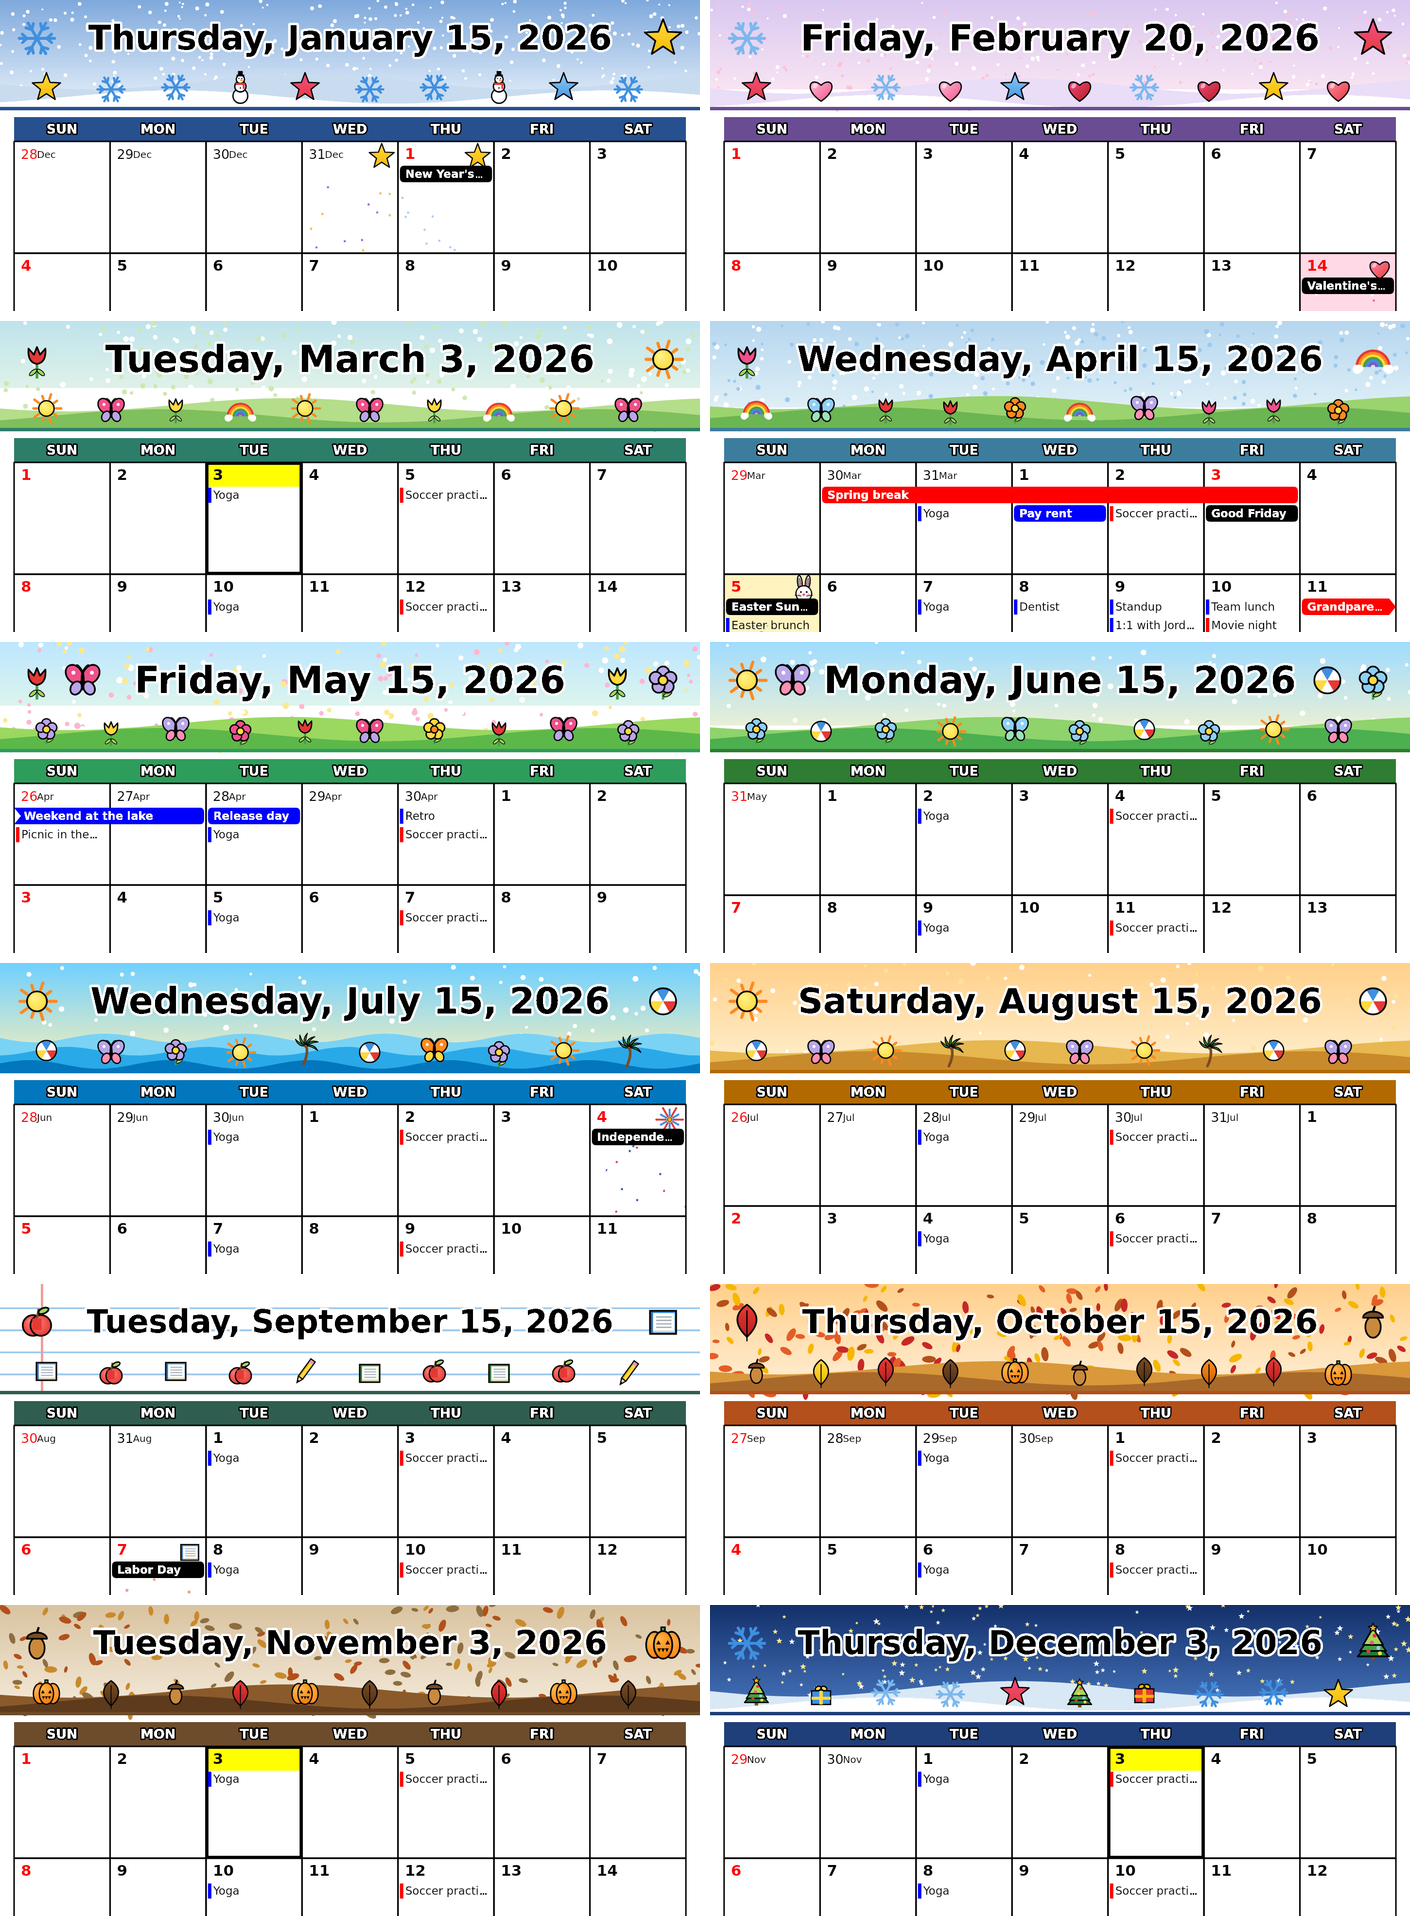
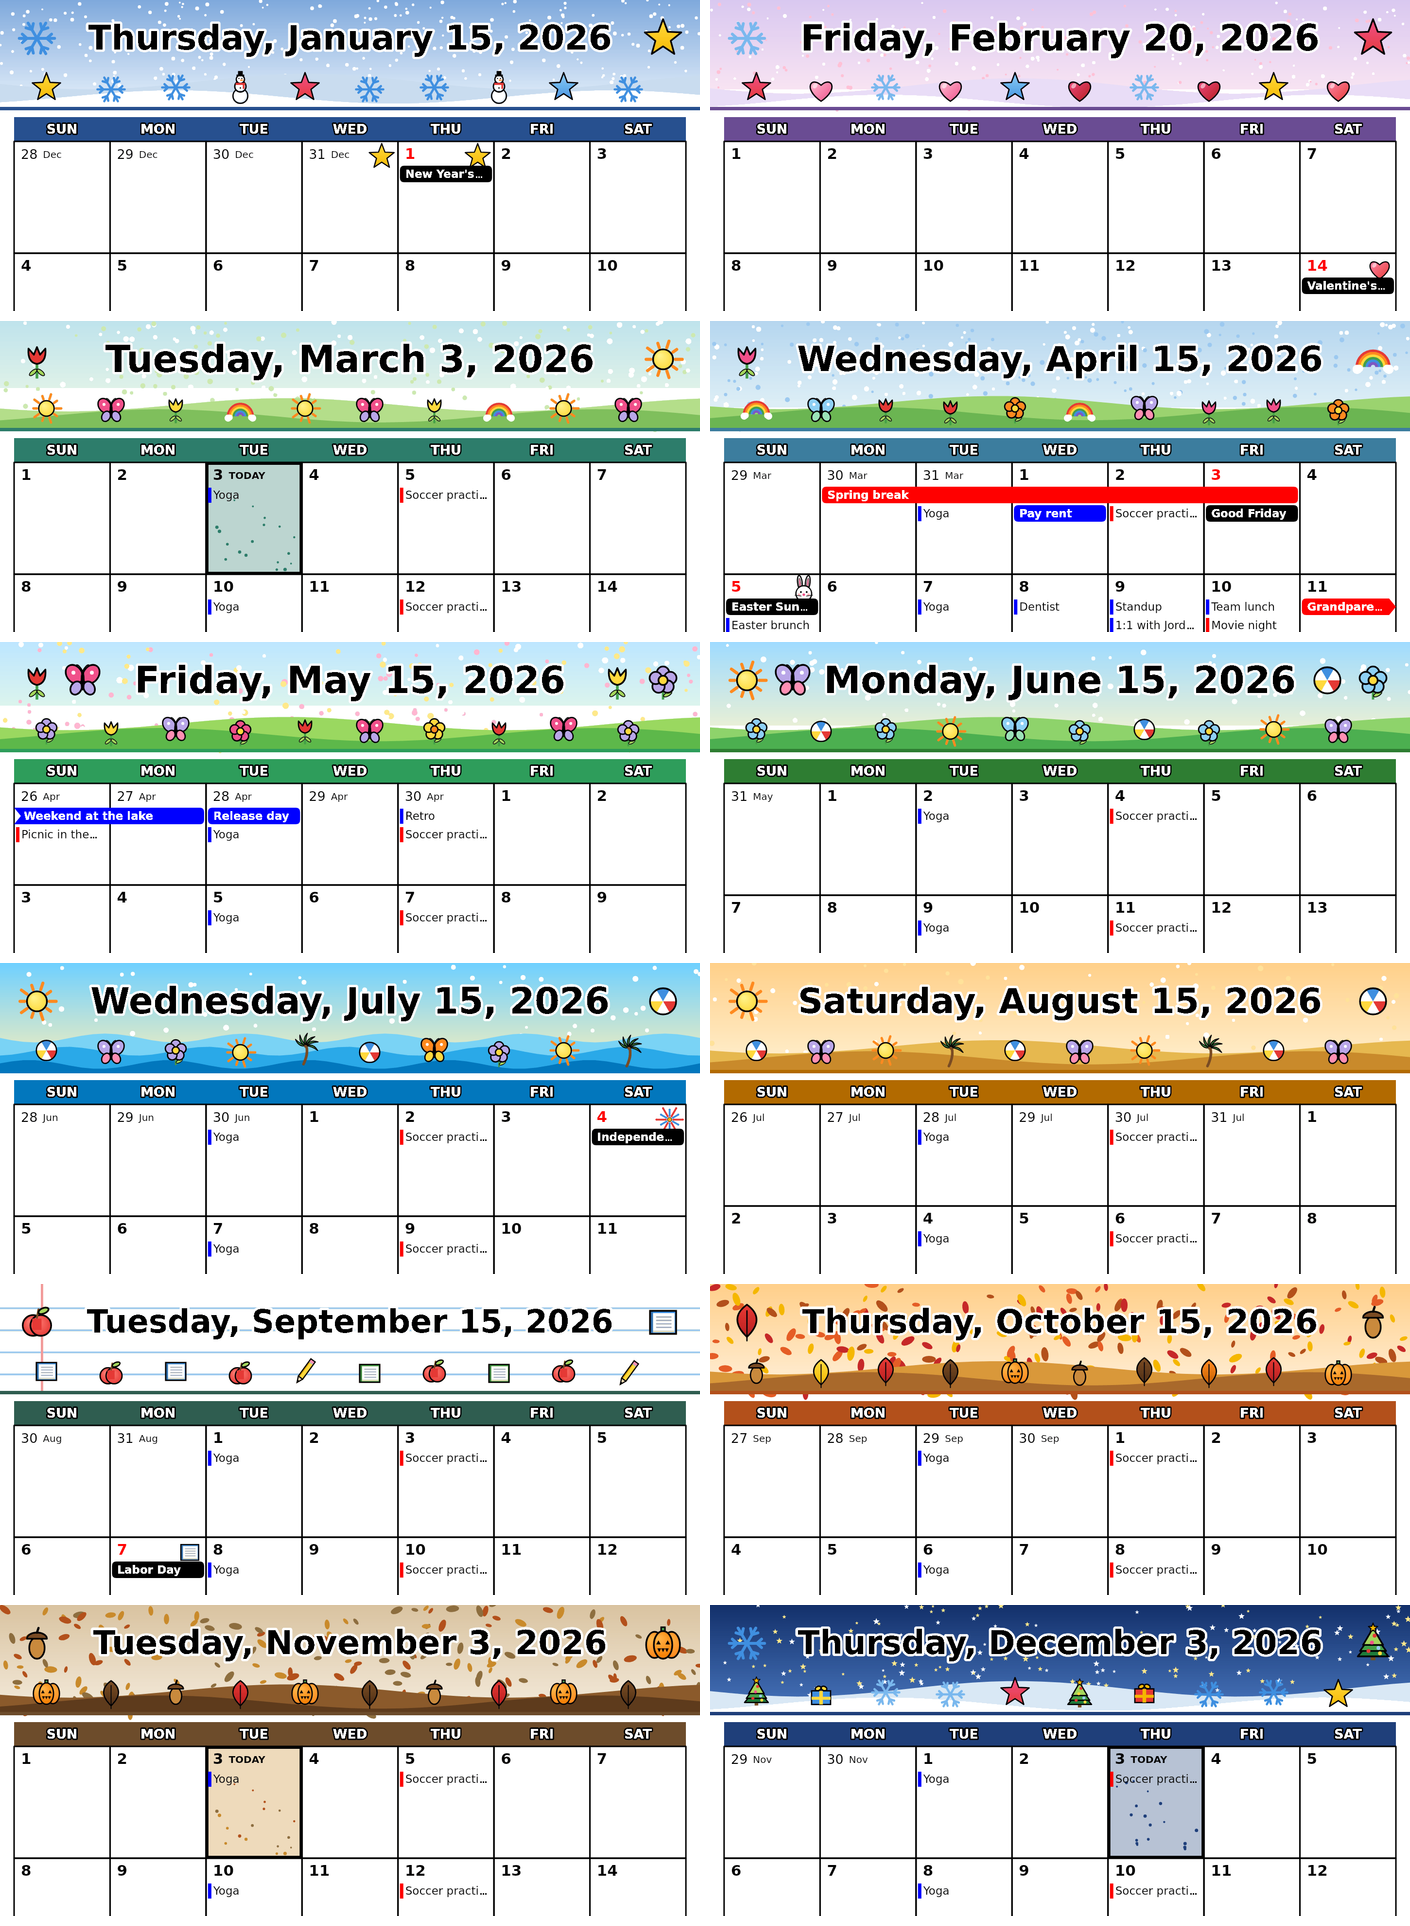
Updates to the calendar to only show two weeks and tweaks to themeing

diff --git a/docs/CONFIGURATION.md b/docs/CONFIGURATION.md
@@ -11,7 +11,7 @@ learned about the panel itself, see [PROTOCOL.md](../PROTOCOL.md); for the diagn
 - **Month grid (Sunday first):** each event is just its title. All-day and multi-day events are
   colored bars that run across the days, carry on into the next week with ◂ ▸ arrows, and stack in
   lanes when they overlap. Timed events are the title in black beside a thin bar in the calendar's color, filling the free rows
-  of the day. Anything that does not fit becomes "+N more". Today has a yellow band across its date and a heavy black frame.
+  of the day. Anything that does not fit becomes "+N more". Today has a heavy black frame, a small **TODAY** label after its date and (with a theme) a tint made from the theme's colors: the most vivid color of its scattered pattern (its band color if the pattern has none, as with snow), mostly white, speckled with the pattern's colors. A holiday is not tinted; it has only its icon in the corner, whether or not it is today.
 - **Today's agenda:** time, title, then whichever of these the event has: **Where** (location),
   **Video** (Meet, Zoom, Teams link), **With** (organizer and guests, leaving you out), **Notes**
   (the description, with HTML, links and invite boilerplate stripped), and **Status**
@@ -27,9 +27,11 @@ Pick one with `LAYOUT` (or `DISPLAY_<ID>_LAYOUT`, or the **Layout** selector in 
 
 | Layout | What it is |
 |---|---|
-| `paper` (default) | A printed wall calendar: colored weekday band, boxed days, red Sundays and holidays, then today's agenda and the shopping list. |
+| `paper` (default) | A printed wall calendar: colored weekday band, boxed days, red holidays, then today's agenda and the shopping list. |
 | `poster` | A holiday takeover: a full-bleed illustrated scene with a big greeting and only today's agenda on a plaque at the bottom. It replaces the chosen layout on the holiday itself (see [Holiday posters](#holiday-posters)), and you can pick it as a layout to see one: `/preview?layout=poster&now=2026-10-31T12:00:00Z`. |
-| `timeline` | A compact month (shorter rows: all-day bars first, then as many timed titles as fit, then a colored dot for each one that does not), then today hour by hour (blocks sized by duration, overlaps side by side) beside Coming up and the shopping list. See below for long and crowded days. |
+| `timeline` | A compact calendar of **this week and next** (see below; `TIMELINE_WEEKS=0` for the whole month, in shorter rows), then today hour by hour (blocks sized by duration, overlaps side by side) beside Coming up and the shopping list. With a theme, the two panels hang from a scenic band, their titles white tabs on its lower edge. See below for long and crowded days. |
+
+**The weeks of the timeline.** `TIMELINE_WEEKS` (default `2`; `0` to `3`) is how many weeks the calendar at the top shows, from the one holding today. Fewer weeks mean taller cells: each is as tall as the busiest day in those weeks needs, so every title fits, a timed event starts with its time (`9a`, `2:30p`) and nothing turns into a dot unless a day is very full; what the cells do not use goes to today's hours and Coming up. No day is dimmed as another month's; a month name marks each 1st and the first cell. A preview takes `?weeks=0..3`.
 
 **A long or crowded day in the timeline.** The hour-by-hour view stays readable in four ways:
 - A timed event as long as `TIMELINE_AMBIENT_HOURS` (default 24: a whole day, such as a 24/7 gym) is shown as an all-day chip above the hours, like Google Calendar does. It does not stretch the hours or take lane width. A long event shorter than that stays a block.
@@ -40,15 +42,14 @@ Pick one with `LAYOUT` (or `DISPLAY_<ID>_LAYOUT`, or the **Layout** selector in 
 
 Set either setting to 0 to turn it off; with both at 0 the day is always drawn as hours. An event that ends exactly at midnight runs to the end of the day.
 
-Red day numbers mark Sundays, and the days of any calendar with `mark_days: true` (`CALENDAR_<ID>_MARK_DAYS=true`;
-use it for a holidays calendar).
+Red day numbers mark the days of any calendar with `mark_days: true` (`CALENDAR_<ID>_MARK_DAYS=true`;
+use it for a holidays calendar). Sundays are not red.
 
 ## Themes
 
 A theme dresses the frame around the calendar, in full color: a **scenic banner** behind the date (sky
 gradient, scattered pattern, rolling ground, big and small motifs), a **scenic footer** that holds the
-calendar legend, a **colored weekday band and panel headers** with a motif, and a **tinted, decorated
-background on real holiday dates** (a pastel Easter Sunday with a bunny, a Christmas Day tree). The date is
+calendar legend, a **colored weekday band and panel headers** with a motif, and **an icon on real holiday dates** (a bunny on Easter Sunday, a tree on Christmas Day). The date is
 centered on the banner with a white outline, and the legend sits on a white plate. **The calendar boxes stay white**, and event text, bars and gridlines stay in the
 panel's six pure inks so they read cleanly.
 
@@ -77,7 +78,7 @@ highlights) are in the pure inks. Up close it reads as a pattern, so judge the l
 | the Sunday before Thanksgiving to Thanksgiving | `autumn` |
 | Dec 12 to 26 | `christmas` (trees, candy canes, gifts) |
 
-The other built-in theme is `winter`. A holiday's own decorated cell (the bunny on Easter Sunday, a tree on Christmas Day) appears
+The other built-in theme is `winter`. A holiday's own icon (the bunny on Easter Sunday, a tree on Christmas Day) appears
 in whatever design that month wears.
 
 - `THEME=auto` (the default) follows the date as above. `THEME=none` turns theming off. `THEME=easter` (any theme
@@ -98,8 +99,8 @@ themes:
     - { from: easter-7, to: easter+1, theme: easter }   # MM-DD, or easter / thanksgiving with an offset in days
     - { from: 10-24, to: 10-31, theme: halloween }
   builtin_windows: true          # false: only your windows
-  marks:                         # a decorated day cell on a date, every year, in any theme
-    "05-14": { motif: star, tint: "#fff3c4", deco: ["#f5b700"] }
+  marks:                         # an icon on a day cell, on a date, every year, in any theme
+    "05-14": { motif: star }
   takeovers:                     # holiday posters, see "Holiday posters" below; yours come before the built-in ones
     - { from: 06-14, scene: birthday, greeting: [HAPPY, BIRTHDAY] }   # picture: themes/birthday/poster.png
   builtin_takeovers: true        # false: only your takeovers
@@ -112,7 +113,7 @@ themes:
       ground: { kind: hills, colors: ["#2a1a40", "#1c1030"], height: 0.3 }
       motifs: [pumpkin, ghost, bat, moon]               # the large pictures in the header; [bat, 2] picks a variant
       holidays:
-        "10-31": { motif: pumpkin, tint: "#ffe0b0", deco: ["#ff8a1f"] }
+        "10-31": { motif: pumpkin }
 ```
 
 | Key of a custom theme | Meaning |
@@ -123,10 +124,10 @@ themes:
 | `pattern` | `kind` (`dots`, `confetti`, `snow`, `stars`, `hearts`, `leaves`, `clover`, `lines`), `colors`, `size`, `density` (pixels² per shape: smaller is busier); `null` for none |
 | `ground` | `kind` (`hills`, `snow`, `waves`, `stripes`), `colors`, `height` (a fraction of the banner); `null` for none |
 | `motifs` | the pictures along the header and footer: names from the list in [themes/README.md](../themes/README.md), each optionally `[name, variant]` |
-| `holidays` | decorated day cells for this theme: a date (`MM-DD`, `easter+0`, `thanksgiving`) mapped to `motif`, `tint`, `deco` (a few speckle colors) and optional `speckle: stars` |
+| `holidays` | icons on day cells for this theme: a date (`MM-DD`, `easter+0`, `thanksgiving`) mapped to a `motif` (and optional `variant`). `tint`, `deco` and `speckle` from older configs are still accepted, but a holiday cell is no longer tinted |
 
 **What a theme's colors change, and what they do not.** The colors cover the scenery: the weekday and panel-title color, the banner and
-footer gradient, the scattered pattern, the ground, and the holiday cell tints. The motifs are drawn pictures with their own colors (an
+footer gradient, the scattered pattern, the ground, and today's tint. The motifs are drawn pictures with their own colors (an
 orange pumpkin, a white ghost, each with a black outline so it sits on any sky), and a theme chooses which ones appear but does not
 recolor them. If you want a specific look for one, draw it as a PNG (below); a few motifs (eggs, flowers, hearts) also have colored
 `[name, variant]` versions.
@@ -180,7 +181,7 @@ a list of motifs.
 With no `DISPLAY_HOST` / `DISPLAY_PIN` the server only renders and serves ("serve-only"). Open
 `http://localhost:8080/` for the latest frame, or `/preview` to render one on demand.
 `/preview?now=2026-11-03T15:00:00-05:00` shows another day (another month, another theme), `?layout=timeline`
-and `?theme=easter` pick a layout and theme, and `?rotation=90` another orientation. `npm run demo` renders
+and `?theme=easter` pick a layout and theme (`?weeks=0` the timeline's whole month), and `?rotation=90` another orientation. `npm run demo` renders
 the sample images in `docs/images/` from the synthetic calendars in `examples/`.
 
 ## Calendars
@@ -423,7 +424,7 @@ JSON), and commands to `<prefix>/<display>/set/refresh | redraw | check | batter
 
 The panel has six inks and mixes them into everything else by dithering. Two settings decide who does that mixing,
 one for the decoration and one for the edges of text and shapes. Solid fills and lines are always exact inks, and
-colors very near an ink (outlines, today's yellow band) become that ink. A frame is drawn on two layers:
+colors very near an ink (outlines) become that ink. A frame is drawn on two layers:
 
 - **Content** (text, lines, boxes, bars, the date and legend plates) is drawn in the pure inks. `TEXT_AA` is what happens at the
   antialiased edges of letters and rounded corners:
@@ -432,7 +433,7 @@ colors very near an ink (outlines, today's yellow band) become that ink. A frame
   - **`threshold`**: a pixel is ink if at least `TEXT_CUT` (default 0.4) of it is covered, else nothing. Crisp, but thin
     strokes can break up, which makes some lowercase letters look odd. Every pixel is exactly one of the six inks.
   - **`dither`**: ink in proportion to coverage, by a fixed pattern, so edges are a halftone. Also six inks only.
-- **Theme art** (gradients, pastels, motifs, holiday-cell tints) is full color, and `ART_DITHER` says who mixes it:
+- **Theme art** (gradients, pastels, motifs, today's tint) is full color, and `ART_DITHER` says who mixes it:
   - **`panel`** (default): sent in true color, so the panel's own dithering mixes the inks.
   - **`pattern`**: we mix it from all six inks with a regular-pattern tile per color, so a pastel pink is white with some
     red, a purple is blue with red and a teal is green with blue, evenly, so it stays clean next to text. Red is never

diff --git a/README.md b/README.md
@@ -17,7 +17,7 @@ redraws the panel only when something changed. Home Assistant can decide *when* 
 
 ## What it does
 
-- **Month grid** with multi-day events as one bar that wraps across weeks, timed events as titles with a thin bar in the calendar's color, per-calendar colors, red Sundays and holidays.
+- **Month grid** with multi-day events as one bar that wraps across weeks, timed events as titles with a thin bar in the calendar's color, per-calendar colors, red holidays, and today marked by a tint, a frame and a TODAY label.
 - **Today's agenda** with location, video link, guests and notes, plus **coming up** and a **shopping list** (JSON/text file or Google Tasks).
 - **Holiday posters:** on the big days (Valentine's, St. Patrick's, Easter, Fourth of July, Halloween, Thanksgiving, Christmas, New Year) the calendar steps aside for a full-screen illustration and just today's agenda. [Draw your own](#holiday-posters).
 - **Two layouts** (`paper`, `timeline`) and a **theme for every month plus the holidays** (full color; Easter only around Easter, Halloween only the last week of October): [make your own](#themes) in the config file, with your own header and footer artwork if you like.
@@ -95,8 +95,8 @@ themes:
     - { from: easter-7, to: easter+1, theme: easter }   # MM-DD, or easter / thanksgiving with an offset in days
     - { from: 10-24, to: 10-31, theme: halloween }
   builtin_windows: true          # false: only your windows
-  marks:                         # a decorated day cell on a date, every year, in any theme
-    "05-14": { motif: star, tint: "#fff3c4", deco: ["#f5b700"] }
+  marks:                         # an icon on a day cell, on a date, every year, in any theme
+    "05-14": { motif: star }
   custom:                        # your own themes
     october-night:
       extends: halloween         # start from a built-in theme (optional)
@@ -106,10 +106,10 @@ themes:
       ground: { kind: hills, colors: ["#2a1a40", "#1c1030"], height: 0.3 }
       motifs: [pumpkin, ghost, bat, moon]               # the large pictures in the header
       holidays:
-        "10-31": { motif: pumpkin, tint: "#ffe0b0", deco: ["#ff8a1f"] }
+        "10-31": { motif: pumpkin }
 ```
 
-A custom theme changes the scenery's colors (bands, sky, pattern, ground, holiday tints) and chooses which motifs appear. The motifs
+A custom theme changes the scenery's colors (bands, sky, pattern, ground, and today's tint) and chooses which motifs appear. The motifs
 are drawn pictures with their own colors; to change one, or the whole banner and footer, draw your own PNGs
 ([themes/README.md](themes/README.md)).
 

diff --git a/CLAUDE.md b/CLAUDE.md
@@ -66,11 +66,12 @@ User docs: `README.md`, `docs/CONFIGURATION.md`. What is known about the panel: 
 - Layouts are `(ctx, model, {w, h, S})` functions, where S = `styleFor(theme)`. A theme (`themes.mjs`) is full
   color: a chrome color (weekday band, panel headers; dark enough for white text), a banner and footer scene
   (gradient sky, scattered pattern, ground: hills/snow/waves/stripes), motifs (`strip`) and holiday `marks` that
-  tint and decorate that day's cell (Easter by computus, Thanksgiving as 4th Thursday). A themed frame reserves a
+  put an icon on that day's cell, never a tint (Easter by computus, Thanksgiving as 4th Thursday). A themed frame reserves a
   taller header (`headerH`) and a footer (`footerH`) that holds the legend; layouts must use those, not
   constants. `THEME=auto` resolves by the date of `model.today`: a holiday window (`BUILTIN_WINDOWS`, plus the config's) if one
   holds it, else the month's design (`MONTH_THEMES`, overridden by the config's `themes.months` or `THEME_JAN`..`THEME_DEC`); HA's
   Theme select overrides all. Holiday cell decorations (`marks`) are independent of the theme: every built-in one shows in any design.
+- Timeline layout (`timelineLayout`): the month grid shows `S.weeks` weeks (`TIMELINE_WEEKS`, default 2; `buildMonth(model, { weeks })`, `weeksFrom`; 0 is the whole month), rows as tall as the busiest day needs, a title band with white tabs when themed. Today's cell: a tint of the theme's own colors (`todayMark` in `themes.mjs`, only with a theme), a heavy frame and a TODAY label. Only marked holidays have red numbers.
 - Month grid: bars (all-day or multi-day) get lanes across a week; timed single-day events fill the rows each
   day's bars leave free; overflow is "+N more". Cell capacity comes from the row height.
 - Keep the drawing parts in `draw.mjs` free of data logic.
